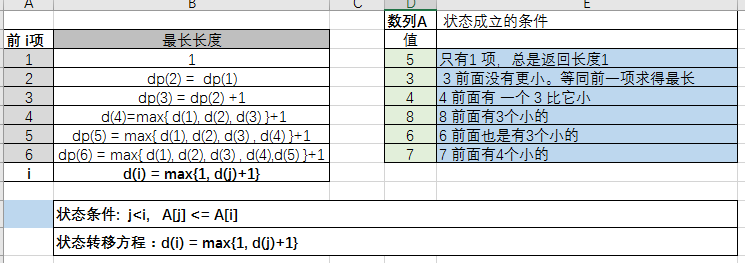
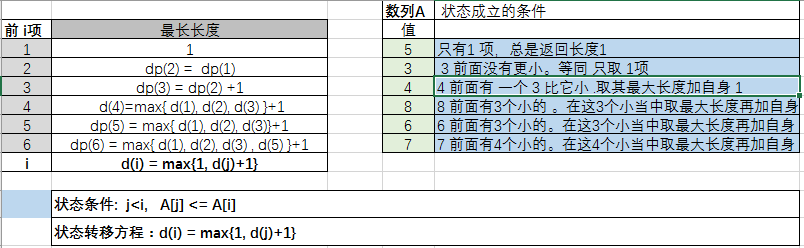
修正lis的 表格绘制说明

diff --git a/concept/DynamicProgramming/readme.md b/concept/DynamicProgramming/readme.md
@@ -53,11 +53,11 @@ Programming 理解为表格，规划、设计
 
   前1个数的LIS长度d(1)=1 :序列：5，----总是1
   
-  前2个数的LIS长度d(2)=1 :序列：3；----3前面没有比3小的。所以等同前一个的 d(1)
+  前2个数的LIS长度d(2)=1 :序列：3；----3前面没有比3小的。所以等同取1项 d(1)
   
-  前3个数的LIS长度d(3)=2 :序列：3，4；----4前面有 1个 比它小的3，所以 d(3)=d(2)+1 
+  前3个数的LIS长度d(3)=2 :序列：3，4；----4前面有 1个 比它小的3，所以取这个小的最长+1 d(3)=d(2)+1 
   
-  前4个数的LIS长度d(4)=3 :序列：3，4，8； ----8前面比它小的有 3个 数，所以 d(4)=max{d(1),d(2),d(3)}+1=3)
+  前4个数的LIS长度d(4)=3 :序列：3，4，8； ----8前面比它小的有 3个 数，所以分别取这3项的最长 +1(自己一个) d(4)=max{d(1),d(2),d(3)}+1=3
   
 
   
